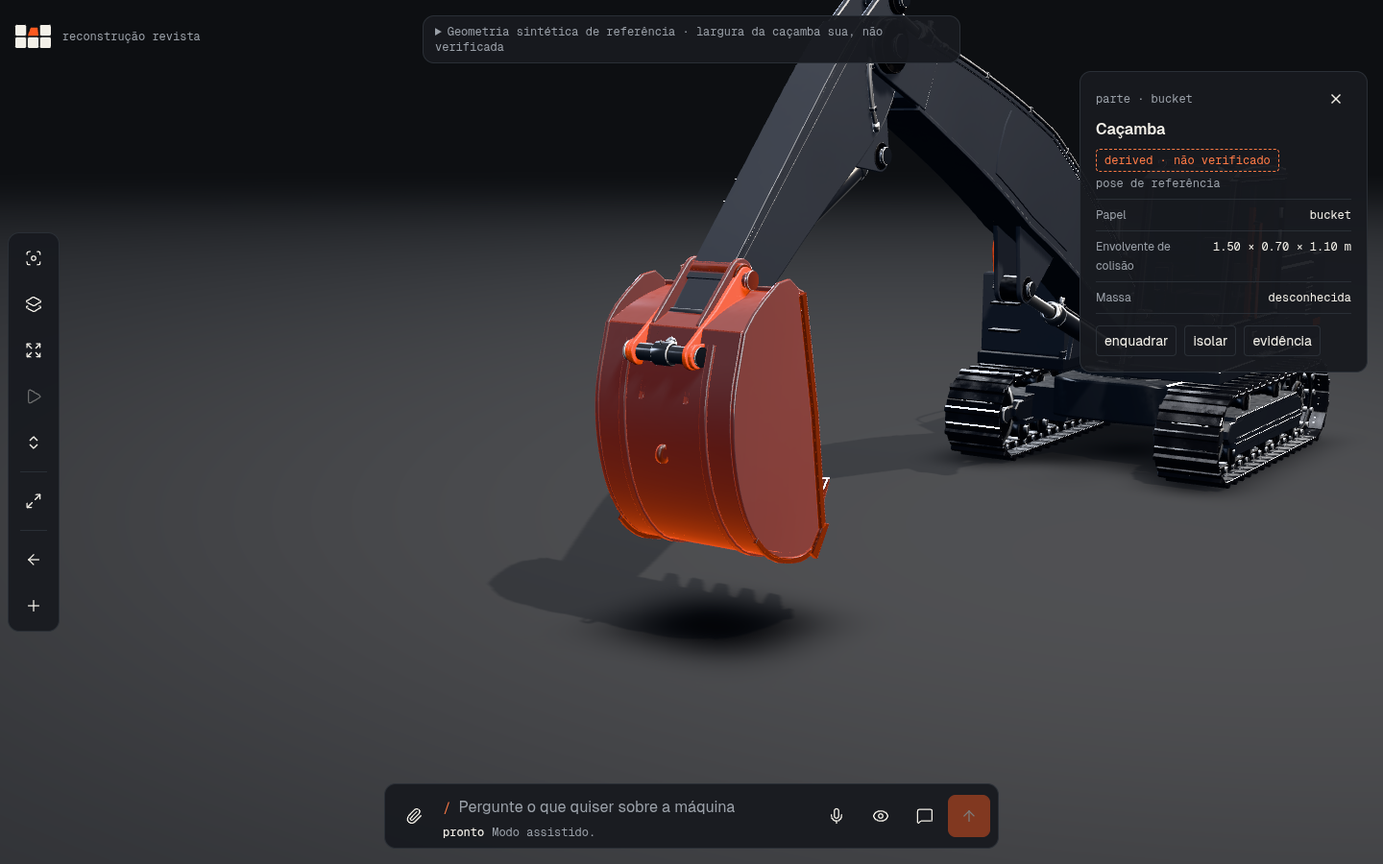
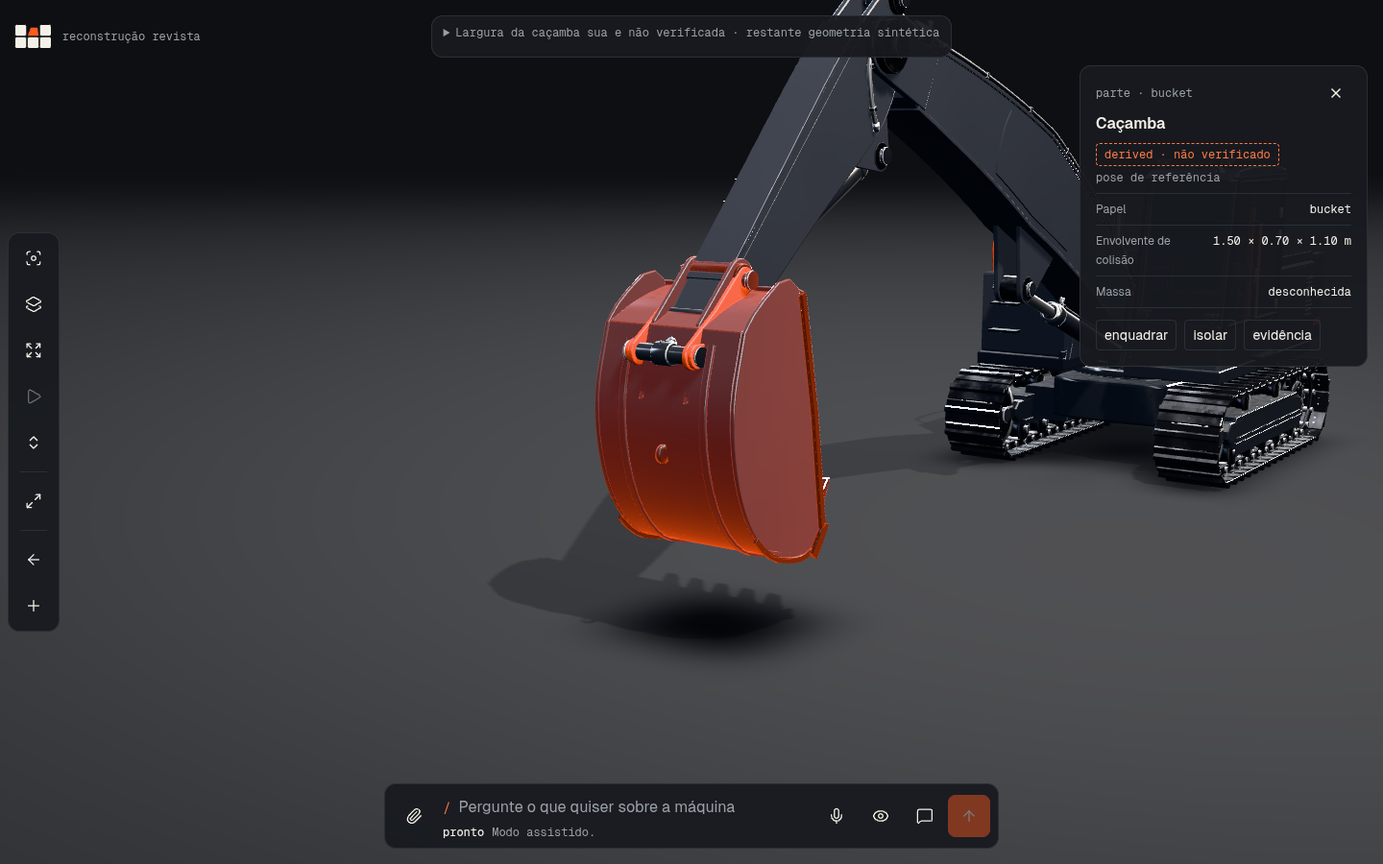
Review fixes: expired session actions, webcam released on every exit, width notice
1. An expired session (server 404 or the 30 minutes passing locally) now shows
   'Importar outra fonte' and 'Novo projecto', which start over without a page
   reload; the interface reacts at the moment of expiry, without a click.
2. Leaving a machine (replace, clear, back to review, new project, dispose)
   stops webcam hand control: tracker forgotten first, capture tracks ended,
   video released, interaction model reset, cursor cleared. Covered with a fake
   camera, including a permission granted after leaving.
3. The lab notice no longer says the 3D mesh ignores the width (the Foundry
   draws it); it says the width is the person's, unmeasured and unverified, and
   the rest is synthetic.

diff --git a/tests/e2e/unified-lifecycle.pw.ts b/tests/e2e/unified-lifecycle.pw.ts
@@ -11,7 +11,7 @@ process.env.UNFOLD_API_TARGET = 'http://127.0.0.1:9';
 const port = Number(process.env.UNFOLD_LIFECYCLE_PORT ?? 5331);
 const vite = await createServer({ server: { host: '127.0.0.1', port, strictPort: true }, logLevel: 'error' });
 await vite.listen();
-const browser = await chromium.launch({ executablePath: process.env.CHROME_PATH ?? '/usr/bin/google-chrome', args: ['--use-angle=swiftshader', '--enable-unsafe-swiftshader', '--ignore-gpu-blocklist', '--no-sandbox'] });
+const browser = await chromium.launch({ executablePath: process.env.CHROME_PATH ?? '/usr/bin/google-chrome', args: ['--use-angle=swiftshader', '--enable-unsafe-swiftshader', '--ignore-gpu-blocklist', '--no-sandbox', '--use-fake-device-for-media-stream', '--use-fake-ui-for-media-stream'] });
 const errors: string[] = [];
 try {
   const page = await browser.newPage({ viewport: { width: 1000, height: 700 } });
@@ -31,5 +31,54 @@ try {
   const r = await page.evaluate(async () => { const ws = (window as any).__workspace; ws.replaceAssembly(ws.options.assembly, { reveal: true }); const running = ws.revealTween !== null; ws.dispose(); const stopped = ws.revealTween === null; await new Promise((res) => setTimeout(res, 1500)); return { running, stopped }; });
   assert.deepEqual(r, { running: true, stopped: true });
   console.log('PASS dispose during the entry animation stops it at once');
+
+  // ---- webcam hand control: leaving a machine must end the capture, whatever the way out, even if the permission arrives late
+  const cam = await browser.newPage({ viewport: { width: 1000, height: 700 } });
+  cam.on('pageerror', (e) => errors.push(e.message));
+  await cam.route(/\/mediapipe\/|hand_landmarker\.task/, () => { /* never answered: the capture stays live while the model "loads" */ });
+  await cam.addInitScript(() => {
+    const md = navigator.mediaDevices; const original = md.getUserMedia.bind(md);
+    (window as any).__streams = []; (window as any).__gate = null;
+    md.getUserMedia = async (constraints) => { const gate = (window as any).__gate; if (gate) await gate; const stream = await original(constraints); (window as any).__streams.push(stream); return stream; };
+  });
+  await cam.goto(`http://127.0.0.1:${port}/living?example=1&debug-living=1&rm=1&agent=fixture`);
+  await cam.waitForFunction(() => (window as any).__foundry?.ready, null, { timeout: 120000 });
+  const camState = () => cam.evaluate(() => { const ws = (window as any).__workspace; const hand = ws.el.userHand as HTMLElement; return { tracker: ws.handTracker !== null, pressed: ws.el.toolHand.getAttribute('aria-pressed'), srcObject: (ws.el.video as HTMLVideoElement).srcObject !== null, tracks: (window as any).__streams.flatMap((st: MediaStream) => st.getTracks().map((t) => t.readyState)), cursorHidden: hand.hidden, cursorState: hand.dataset.state ?? null }; });
+  const startHand = async () => { await cam.evaluate(() => { (window as any).__streams.length = 0; }); await cam.locator('[data-el="toolMore"]').click(); if ((await cam.locator('[data-el="toolHand"]').getAttribute('aria-pressed')) !== 'true') await cam.locator('[data-el="toolHand"]').click(); };
+  const exits: Array<[string, 'clear' | 'empty' | 'other']> = [
+    ['clearMachine', 'clear'],
+    ['replaceAssembly to the empty stage', 'empty'],
+    ['replaceAssembly to another machine', 'other'],
+  ];
+  for (const [name, way] of exits) {
+    await cam.evaluate(() => { const ws = (window as any).__workspace; if (ws.isEmpty) ws.replaceAssembly(ws.options.assembly, { reveal: false }); });
+    await startHand();
+    await cam.waitForFunction(() => (window as any).__streams.length === 1 && (window as any).__workspace.el.video.srcObject, null, { timeout: 30000 });
+    const live = await camState();
+    assert.deepEqual([live.tracker, live.pressed, live.srcObject, live.tracks.every((t: string) => t === 'live') && live.tracks.length > 0], [true, 'true', true, true], `${name}: the capture is live before leaving`);
+    await cam.evaluate(() => { const ws = (window as any).__workspace; const hand = ws.el.userHand as HTMLElement; hand.hidden = false; hand.dataset.state = 'active'; hand.style.left = '10px'; (window as any).__tracker = ws.handTracker; });
+    await cam.evaluate((w) => { const ws = (window as any).__workspace; if (w === 'clear') ws.clearMachine({}); else if (w === 'empty') ws.replaceAssembly(ws.options.assembly, { empty: true }); else ws.replaceAssembly(ws.options.assembly, { reveal: false }); }, way);
+    const after = await camState();
+    assert.deepEqual({ tracker: after.tracker, pressed: after.pressed, srcObject: after.srcObject, cursorHidden: after.cursorHidden, cursorState: after.cursorState }, { tracker: false, pressed: 'false', srcObject: false, cursorHidden: true, cursorState: null }, `${name}: the tracker, the video and the hand state are released`);
+    assert.ok(after.tracks.length > 0 && after.tracks.every((t: string) => t === 'ended'), `${name}: every capture track ended (${after.tracks})`);
+    // a callback that arrives late must not bring the hand back
+    await cam.evaluate(() => { const t = (window as any).__tracker; t.options.onLandmarks(Array.from({ length: 21 }, (_, i) => ({ x: 0.5 + i * 0.001, y: 0.5, z: 0 }))); });
+    assert.equal((await camState()).cursorHidden, true, `${name}: a late landmark callback does nothing`);
+    console.log(`PASS webcam released on: ${name}`);
+  }
+
+  // the permission is granted only after the person already left
+  await cam.evaluate(() => { const ws = (window as any).__workspace; if (ws.isEmpty) ws.replaceAssembly(ws.options.assembly, { reveal: false }); (window as any).__streams.length = 0; (window as any).__gate = new Promise((res) => { (window as any).__grant = res; }); });
+  await cam.locator('[data-el="toolMore"]').click(); if ((await cam.locator('[data-el="toolMore"]').getAttribute('aria-expanded')) !== 'true') await cam.locator('[data-el="toolMore"]').click();
+  await cam.locator('[data-el="toolHand"]').click();
+  assert.equal((await camState()).tracker, true, 'the request is pending');
+  await cam.evaluate(() => (window as any).__workspace.clearMachine({}));
+  await cam.evaluate(() => (window as any).__grant());
+  await cam.waitForFunction(() => (window as any).__streams.length === 1, null, { timeout: 30000 });
+  await cam.waitForFunction(() => (window as any).__streams[0].getTracks().every((t: MediaStreamTrack) => t.readyState === 'ended'), null, { timeout: 10000 });
+  const late = await camState();
+  assert.deepEqual({ tracker: late.tracker, srcObject: late.srcObject, pressed: late.pressed }, { tracker: false, srcObject: false, pressed: 'false' });
+  console.log('PASS a permission granted after leaving ends the capture at once and attaches nothing');
+  await cam.close();
   assert.deepEqual(errors, []);
 } finally { await browser.close(); await vite.close(); }

diff --git a/tests/e2e/unified-living.pw.ts b/tests/e2e/unified-living.pw.ts
@@ -161,8 +161,10 @@ try {
     const noticeHeight = await page.evaluate(() => document.querySelector('.uw-notices')!.getBoundingClientRect().height);
     assert.ok(noticeHeight <= 96, `${label}: the provenance notice is compact when collapsed (${noticeHeight}px)`);
     await page.locator('.uw-notice-details summary').click();
-    const detail = await page.locator('.uw-notice-details p').innerText();
-    for (const phrase of [/não foram verificadas/, /malha 3D ainda não mostra/, /forward-kinematics@/, /não certifica segurança/, /1,40 m, antes 1,10 m/]) assert.match(detail, phrase);
+    const detail = (await page.locator('.uw-notice-details p').textContent()) ?? '';
+    // the Foundry draws the width the person gave; what stays true is that it is theirs, unmeasured, and the rest is synthetic
+    for (const phrase of [/malha 3D da caçamba segue a largura que indicou/, /não foi medida nem verificada pela Meta/, /forward-kinematics@/, /não certifica segurança/, /1,40 m, antes 1,10 m/, /resto da geometria é sintético/]) assert.match(detail, phrase);
+    assert.doesNotMatch(detail, /ainda não mostra|forma que vê é de demonstração/);
     await page.screenshot({ path: join(out, `${label}-07-lab-notice-expanded.png`) });
     await page.locator('.uw-notice-details summary').click();
     pass(`${label}: live flow reaches the real workspace through both gates, no overflow, no overlap`);
@@ -290,6 +292,43 @@ try {
     await page.waitForFunction(() => /expirou/.test(document.querySelector('#ux-gw-msg')?.textContent ?? ''));
     assert.equal(await phase(page), 'review');
     pass('an expired server session is reported and the lab stays closed');
+    // the way on is explicit, and it works without reloading the page
+    assert.deepEqual(await page.locator('#ux-gw-msg [data-flow="restart"]').allTextContents(), ['Importar outra fonte', 'Novo projecto']);
+    await page.evaluate(() => { (window as any).__noReload = true; });
+    await page.locator('#ux-gw-msg [data-flow="restart"]', { hasText: 'Importar outra fonte' }).click();
+    assert.equal(await phase(page), 'empty'); assert.equal(await page.evaluate(() => (window as any).__noReload === true), true, 'no page reload');
+    assert.equal(await page.evaluate(() => (window as any).__unified.port.session.state.phase), 'idle');
+    assert.deepEqual(await stageEmpty(page), EMPTY_STAGE);
+    await page.locator('[data-kind="text"]').click(); await page.locator('#ux-text').fill('Escavadora de rastos de 20 t com lança, braço e caçamba.'); await page.locator('#ux-use-text').click();
+    assert.equal(await phase(page), 'selected', 'a new source can be imported straight away');
+    pass('after an expired session the person can import another source without reloading');
+    await page.close();
+  }
+
+  // local expiry (30 minutes), with the browser clock advanced: the interface reacts by itself and offers the same two ways on
+  await restartBackend(); providerCalls.length = 0; api.length = 0;
+  {
+    const page = await browser.newPage({ viewport: { width: 1440, height: 900 } });
+    page.on('pageerror', (e) => errors.push(e.message));
+    await page.route('**/api/living/reconstruction', async (route) => {
+      const request = route.request();
+      const response = await fetch(`http://127.0.0.1:${backendPort}/api/living/reconstruction`, { method: 'POST', headers: { 'content-type': 'application/json', origin: ALLOWED_ORIGIN }, body: request.postData() ?? '' });
+      await route.fulfill({ status: response.status, contentType: 'application/json', body: await response.text() });
+    });
+    await page.clock.install({ time: new Date() });
+    await page.goto(`http://127.0.0.1:${port}/living?debug-living=1&rm=1&agent=fixture`);
+    await page.waitForFunction(() => (window as any).__experience?.ready, null, { timeout: 120000 });
+    await toServerStep(page);
+    assert.equal(await page.locator('#ux-enter').isDisabled(), false);
+    await page.clock.fastForward('30:05');
+    await page.waitForFunction(() => /expirou/.test(document.querySelector('#ux-gw-msg')?.textContent ?? ''), null, { timeout: 10000 });
+    assert.equal(await page.locator('#ux-enter').isDisabled(), true, 'nothing can be sent any more');
+    assert.deepEqual(await page.locator('#ux-gw-msg [data-flow="restart"]').allTextContents(), ['Importar outra fonte', 'Novo projecto']);
+    assert.equal(api.filter((a) => a.body.action === 'review').length, 0, 'the server was never asked: the expiry is known locally');
+    await page.screenshot({ path: join(out, 'session-expired.png') });
+    await page.locator('#ux-gw-msg [data-flow="restart"]', { hasText: 'Novo projecto' }).click();
+    assert.equal(await phase(page), 'empty'); assert.deepEqual(await stageEmpty(page), EMPTY_STAGE);
+    pass('a session that expires locally is shown without a click, with both ways on, and "Novo projecto" starts over');
     await page.close();
   }
 

diff --git a/src/living/experience/experience.ts b/src/living/experience/experience.ts
@@ -22,7 +22,7 @@ import { renderDrawing, type DrawingResult } from './drawing';
 import { initialFlow, PHASE_HEADLINE, reduceFlow, type FlowAction, type FlowState } from './flow';
 import { checkFile, checkText, DEMO_SCENARIO_LABEL, DEMO_SCENARIOS, DemoReconstructionPort, MAX_INPUT_BYTES, TEXT_LIMITS, type DemoScenario, type InputKind, type IntakeInput, type ReconstructionPort } from './intake';
 import { DRAWING_REFERENCE, ENTITY_PARTS } from './reconstruction-fixture';
-import { gatewayPanel, missingHtml, missingLines, type GatewayMessage } from './gateway-view';
+import { EXPIRED_MESSAGE, gatewayPanel, missingHtml, missingLines, restartActionsHtml, type GatewayMessage } from './gateway-view';
 import type { ComposerMode, ExperienceApi, ExperienceOptions } from './integration';
 import {
   CATEGORY_LABEL, ENGINE_GATE_LABEL, initialReview, labCategory, partCategories, PROPERTY_LABEL, propertyState, readiness, reduceReview, summarize,
@@ -59,6 +59,7 @@ export async function mountExperience(app: HTMLElement, options: ExperienceOptio
   let gwBusy = false;
   /** Two steps in the review column when a handoff is plugged in: 1 = decide the entities, 2 = what the server asks. */
   let gwStep = false;
+  let expiryTimer = 0;
 
   app.innerHTML = `
     <div class="ux-root u-root" data-theme="dark" data-phase="empty" data-reduced-motion="${reducedMotion}" data-integrated="${Boolean(options.lab)}" data-embedded="${Boolean(embedded)}">
@@ -231,6 +232,9 @@ export async function mountExperience(app: HTMLElement, options: ExperienceOptio
         <p class="ux-sheet-note u-label">a localização das regiões não está disponível para esta fonte${port.mode === 'demo' ? ' · resultado de demonstração, não do seu ficheiro' : ''}</p>`;
     }
     options.handoff?.sync(review);
+    clearTimeout(expiryTimer);
+    if (options.handoff?.expired?.() && !gwBusy) gwMessage = EXPIRED_MESSAGE;
+    else { const at = options.handoff?.expiresAt?.(); if (at) expiryTimer = window.setTimeout(() => { if (flow.phase === 'review') renderReview(); }, Math.max(0, at - Date.now()) + 25); }
     if (readiness(review).status !== 'ready_for_engine') gwStep = false;
     root.dataset.step = gwStep && options.handoff ? 'server' : 'entities';
     $('ux-side').innerHTML = gates(review, engine) + counts(review) + unknownsBlock(review);
@@ -241,6 +245,11 @@ export async function mountExperience(app: HTMLElement, options: ExperienceOptio
   /** The primary action and its note. With a handoff, the server's confirmations are part of "ready", never assumed. */
   function refreshEnter() {
     if (!review) return;
+    if (options.handoff?.expired?.()) {
+      ($('ux-enter') as HTMLButtonElement).disabled = true;
+      $('ux-enter-note').innerHTML = `A sessão do servidor expirou: a revisão já não pode ser enviada.${restartActionsHtml()}`;
+      return;
+    }
     const r = readiness(review);
     const blockers = options.handoff ? options.handoff.blockers() : [];
     const stepOne = Boolean(options.handoff) && !gwStep;
@@ -268,7 +277,7 @@ export async function mountExperience(app: HTMLElement, options: ExperienceOptio
       case 'engine_blocked': engine = result.engine; gwMessage = { tone: 'alert', lines: ['O contrato é válido, mas o motor não consegue resolver esta montagem. O laboratório fica fechado.', ...result.engine.reasons] }; break;
       case 'blocked': gwMessage = { tone: 'alert', lines: ['O servidor bloqueou a revisão:', ...result.reasons] }; break;
       case 'not_adoptable': gwMessage = { tone: 'alert', lines: ['A montagem devolvida não passou as verificações locais e foi descartada:', ...result.reasons] }; break;
-      case 'expired': gwMessage = { tone: 'alert', lines: ['A sessão expirou ou o servidor foi reiniciado. A revisão não foi gravada: importe a fonte de novo.'] }; break;
+      case 'expired': gwMessage = EXPIRED_MESSAGE; break;
       case 'failed': gwMessage = { tone: 'alert', lines: [result.message] }; break;
       case 'ignored': gwMessage = null; break;
     }
@@ -300,7 +309,7 @@ export async function mountExperience(app: HTMLElement, options: ExperienceOptio
     if (labMounted) { options.lab?.unmount(); labMounted = false; }
     if (!embedded) { $('ux-workspace').hidden = true; $('ux-stage').style.visibility = ''; }
   }
-  function resetIntegration() { options.example?.close?.(); options.handoff?.reset(); engine = { status: 'not_run' }; candidate = null; gwMessage = null; gwBusy = false; gwStep = false; }
+  function resetIntegration() { clearTimeout(expiryTimer); options.example?.close?.(); options.handoff?.reset(); engine = { status: 'not_run' }; candidate = null; gwMessage = null; gwBusy = false; gwStep = false; }
   function enterLab(animated = true) {
     if (!review || readiness(review).status !== 'ready_for_engine') return;
     dispatch({ type: 'open_lab' });

diff --git a/tests/unified-workspace/review-fixes.test.ts b/tests/unified-workspace/review-fixes.test.ts
@@ -1,0 +1,57 @@
+import { describe, expect, it, vi } from 'vitest';
+import { createReconstructionClient, ReconstructionSession, ReviewGateway, SESSION_TTL_MS, type WorkspaceCandidate } from '../../src/living/unified-workspace';
+import { candidateNotices } from '../../src/living/unified-workspace/lab-host';
+import { PNG_1X1, json, proposalBody } from './helpers';
+
+const candidate = { bucketWidthM: { before: 1.1, after: 1.4 } } as unknown as WorkspaceCandidate;
+const gates = { review: '14 de 14 decididas', engine: 'validada pelo motor · solver@0.1.0' };
+
+describe('the lab notice about the bucket width (the Foundry now draws it)', () => {
+  const [notice] = candidateNotices(candidate, gates);
+  const text = `${notice!.text} ${notice!.detail}`;
+
+  it('no longer says the 3D mesh does not show the width', () => {
+    expect(text).not.toMatch(/ainda não mostra|forma que vê é de demonstração|não a mostra/i);
+  });
+  it('says the mesh follows the width the person gave, with both values', () => {
+    expect(notice!.detail).toMatch(/malha 3D[^.]*largura que indicou/i);
+    expect(notice!.detail).toContain('1,40 m'); expect(notice!.detail).toContain('1,10 m');
+  });
+  it('keeps what is still true: not measured or verified, the rest of the geometry is synthetic', () => {
+    expect(text).toMatch(/não (foi )?medida nem verificada|não (foram )?verificad/i);
+    expect(text).toMatch(/Meta/);
+    expect(text).toMatch(/sintétic/i);
+    expect(notice!.detail).toMatch(/não certifica segurança/);
+  });
+});
+
+describe('an expired reconstruction session is visible to the interface', () => {
+  async function started(now: () => number) {
+    const fetchImpl = vi.fn(async () => json(200, { ...proposalBody(), mode: 'live', meta: { model: 'm', requestId: 'r' } }));
+    const session = new ReconstructionSession({ client: createReconstructionClient({ fetchImpl: fetchImpl as unknown as typeof fetch }), now });
+    await session.propose({ sourceKind: 'image', imageDataUrl: PNG_1X1, mode: 'live' });
+    return { session, gateway: new ReviewGateway(session) };
+  }
+
+  it('reports when it will expire, and then that it has', async () => {
+    let clock = 5_000;
+    const { gateway } = await started(() => clock);
+    expect(gateway.expired()).toBe(false);
+    expect(gateway.expiresAt()).toBe(5_000 + SESSION_TTL_MS);
+    clock += SESSION_TTL_MS;
+    expect(gateway.expired()).toBe(true);
+  });
+
+  it('has nothing to expire when there is no session, and a reset is not an expiry', async () => {
+    const { gateway, session } = await started(() => 0);
+    session.reset();
+    expect(gateway.expired()).toBe(false); expect(gateway.expiresAt()).toBeNull();
+  });
+
+  it('a submit after the local expiry is reported as expired without calling the server', async () => {
+    let clock = 0;
+    const { gateway } = await started(() => clock);
+    clock += SESSION_TTL_MS + 1;
+    expect(await gateway.submit()).toEqual({ kind: 'expired' });
+  });
+});

diff --git a/src/living/experience/gateway-view.ts b/src/living/experience/gateway-view.ts
@@ -8,7 +8,11 @@ import type { ReviewState } from './review';
 const esc = (s: string) => s.replace(/[&<>"']/g, (ch) => ({ '&': '&amp;', '<': '&lt;', '>': '&gt;', '"': '&quot;', "'": '&#39;' })[ch]!);
 const KIND: Record<string, string> = { hypothesis: 'afirmação do modelo', relation: 'relação', request: 'pedido de alteração' };
 
-export type GatewayMessage = { tone: 'alert' | 'status'; lines: string[] } | null;
+export type GatewayMessage = { tone: 'alert' | 'status'; lines: string[]; /** offer the two ways to start again */ restart?: boolean } | null;
+
+/** The server session is gone: nothing can be sent, and the person must be able to start again without reloading the page. */
+export const EXPIRED_MESSAGE: NonNullable<GatewayMessage> = { tone: 'alert', restart: true, lines: ['A sessão do servidor expirou ou o servidor foi reiniciado. Nada foi gravado e esta revisão já não pode ser enviada.'] };
+export const restartActionsHtml = (): string => '<div class="ux-row ux-restart-actions"><button class="u-btn u-btn--ink" type="button" data-flow="restart">Importar outra fonte</button><button class="u-btn u-btn--outline" type="button" data-flow="restart">Novo projecto</button></div>';
 
 function extraRow(e: HandoffExtra): string {
   const key = esc(e.key);
@@ -66,6 +70,6 @@ export function gatewayPanel(handoff: ReviewHandoff, ui: ReviewState, message: G
     ${extras.length ? `<details class="ux-gw-extras" ${open ? 'open' : ''}><summary class="u-label">relações e afirmações do modelo · ${open ? `${open} por decidir` : 'todas decididas'}</summary>${bulk}<ul>${extras.map(extraRow).join('')}</ul></details>` : ''}
     <div class="ux-gw-sent u-label">${sentSummary(handoff, ui).map((l) => `<p>${esc(l)}</p>`).join('')}</div>
     ${notes.length ? `<ul class="ux-gw-notes u-label" aria-label="Decisões que ficam só neste ecrã">${notes.map((n) => `<li>${esc(n)}</li>`).join('')}</ul>` : ''}
-    <div id="ux-gw-msg" class="ux-gw-msg" ${message?.tone === 'alert' ? 'role="alert"' : 'role="status"'} aria-live="polite">${message ? message.lines.map((l) => `<p>${esc(l)}</p>`).join('') : ''}</div>
+    <div id="ux-gw-msg" class="ux-gw-msg" ${message?.tone === 'alert' ? 'role="alert"' : 'role="status"'} aria-live="polite">${message ? message.lines.map((l) => `<p>${esc(l)}</p>`).join('') + (message.restart ? restartActionsHtml() : '') : ''}</div>
   </section>`;
 }

diff --git a/src/living/workspace-design/workspace.ts b/src/living/workspace-design/workspace.ts
@@ -998,9 +998,23 @@ export class SpatialWorkspace {
     if (this.voice.status === 'LISTENING') this.voice.stop(); else this.voice.start();
   }
 
+  /**
+   * Ends webcam hand control completely: the tracker stops (which also ends the capture's video tracks, even if the permission is
+   * granted only later), the tracker is forgotten BEFORE it is stopped so that every late callback finds it is no longer current,
+   * and the person's hand is cleared from the screen. Idempotent; safe on every exit from a machine.
+   */
+  private stopHandTracking(): void {
+    const tracker = this.handTracker; this.handTracker = null;
+    tracker?.stop();
+    this.arbiter.setHandTracking(false);
+    this.handModel.reset();
+    const cursor = this.el.userHand; if (cursor) { cursor.hidden = true; delete cursor.dataset.state; cursor.style.left = ''; cursor.style.top = ''; }
+    if (tracker) this.renderRail();
+  }
+
   /** Webcam hand control (existing module). Starts only on an explicit click; while active the assistant never moves the camera. */
   async toggleHandTracking(): Promise<void> {
-    if (this.handTracker) { this.handTracker.stop(); this.handTracker = null; this.arbiter.setHandTracking(false); this.el.userHand!.hidden = true; this.renderRail(); return; }
+    if (this.handTracker) { this.stopHandTracking(); return; }
     const video = this.el.video as HTMLVideoElement;
     let last: { x: number; y: number } | null = null;
     const tracker = new WebcamHandTracker({
@@ -1062,6 +1076,7 @@ export class SpatialWorkspace {
     cancelAnimationFrame(this.engineRaf); this.engineRaf = 0; this.engineLast = 0;
     this.playback?.cancel(); this.playback = null;
     this.pending?.abort(); this.pending = null;
+    this.stopHandTracking(); // the camera belongs to a person looking at a machine: leaving the machine releases it
     this.engineering.dispose();
     this.scene.dispose();
     this.releaseLook();
@@ -1191,7 +1206,7 @@ export class SpatialWorkspace {
     this.pending?.abort();
     this.playback?.cancel();
     this.insetTween?.kill();
-    this.handTracker?.stop();
+    this.stopHandTracking();
     this.voice?.stop?.();
     for (const d of this.disposers.splice(0)) d();
     this.director.dispose();

diff --git a/src/living/unified-workspace/lab-host.ts b/src/living/unified-workspace/lab-host.ts
@@ -12,10 +12,10 @@ const fmt = (m: number) => m.toFixed(2).replace('.', ',');
 export function candidateNotices(candidate: WorkspaceCandidate, gates: LabContext['gates']): Array<{ id: string; text: string; detail: string }> {
   return [{
     id: 'reconstruction',
-    text: 'Geometria sintética de referência · largura da caçamba sua, não verificada',
+    text: 'Largura da caçamba sua e não verificada · restante geometria sintética',
     detail: `Revisão humana: ${gates.review}. Validação de engenharia: ${gates.engine} (o motor resolveu a pose de referência; não certifica segurança nem movimento). `
-      + `A largura da caçamba (${fmt(candidate.bucketWidthM.after)} m, antes ${fmt(candidate.bucketWidthM.before)} m) e a revisão são suas e não foram verificadas; o resto da geometria é sintético. `
-      + 'A malha 3D ainda não mostra esta largura: a forma que vê é de demonstração.',
+      + `A malha 3D da caçamba segue a largura que indicou (${fmt(candidate.bucketWidthM.after)} m, antes ${fmt(candidate.bucketWidthM.before)} m). Essa largura é um valor seu: não foi medida nem verificada pela Meta nem por qualquer outra fonte. `
+      + 'O resto da geometria é sintético (referência), e a revisão é sua e não foi verificada.',
   }];
 }
 

diff --git a/src/living/unified-workspace/review-bridge.ts b/src/living/unified-workspace/review-bridge.ts
@@ -94,6 +94,11 @@ export class ReviewGateway {
   reopen(): void { this.session.reopen(); }
   reset(): void { this.session.reset(); }
 
+  /** The server session is gone (404) or its 30 minutes passed locally. A reset or no session is not an expiry. */
+  expired(): boolean { return this.session.state.phase === 'expired'; }
+  /** When the session will expire (epoch ms), or null when there is none to expire. */
+  expiresAt(): number | null { const s = this.session.state; return 'expiresAt' in s ? s.expiresAt : null; }
+
   /** Decisions that stay on this screen. Empty when the session has no observation. */
   localNotes(ui: ReviewState): string[] {
     const s = this.session.state;

diff --git a/src/living/experience/integration.ts b/src/living/experience/integration.ts
@@ -34,6 +34,10 @@ export interface ReviewHandoff {
   /** Decisions that stay on this screen because the API has no field for them. */
   localNotes(ui: ReviewState): string[];
   submit(): Promise<HandoffResult>;
+  /** The server session is gone or timed out: nothing can be sent, so the person must start again. */
+  expired?(): boolean;
+  /** Epoch ms at which the session will expire, or null. Lets the interface react when it does, without a click. */
+  expiresAt?(): number | null;
   /** Back from the lab: the review becomes editable again with the same draft. */
   reopen(): void;
   /** Start over: forget the session. */

diff --git a/reports/unified-workspace/integration.md b/reports/unified-workspace/integration.md
@@ -81,7 +81,7 @@ Defeitos encontrados e corrigidos durante a integração, cada um com teste a fa
 
 ## O que não está feito / não verificado
 
-- **Geometria premium (Foundry/Cloud):** a malha continua a desenhar a caçamba com meia largura fixa; a largura aprovada está no contrato, e o laboratório di-lo num aviso. É a última dependência e não foi tocada.
+- **Geometria premium (Foundry/Cloud):** integrada pelo #19: a malha lê a largura da caçamba do contrato (verificado: 1,10 m → 1,154 m, 1,40 m → 1,454 m). Esta frase, escrita antes do #19, dizia o contrário e foi corrigida.
 - **Modelo real:** o cliente nunca falou com o Muse Spark (sem chamadas pagas). NOT VERIFIED.
 - **Correcções e valores introduzidos** pela pessoa na revisão não chegam à geometria: a API não tem campo para eles.
 - **Fonte sem escavadora:** ver a lacuna do servidor acima.
@@ -195,3 +195,14 @@ Não corresponde ao PR #20. O cabeçalho `· fixture` foi removido do `workspace
 106 ficheiros / 1885 testes, `tsc`, build. E2E novo 24 verificações (1440/768/390). Design 39/39; motor 16, histórico 4, Digital Hand 7, revisão 8, regressões 3 e 4; Foundry 25/25 e 52/52; Cinema 203/203 e histórico.
 
 Limitações novas: o texto da marca durante a revisão continua «laboratório vazio» (não acompanha a fase); a transição é a subida da máquina no palco, sem a dobra da folha do protótipo.
+
+
+---
+
+# Correcções da revisão independente (SHA `0f1d558`)
+
+Três P2 confirmados, corrigidos sem novas funcionalidades.
+
+1. **Sessão expirada.** A revisão mostra agora um aviso com duas ações explícitas, «Importar outra fonte» e «Novo projecto», que recomeçam sem recarregar a página (a sessão do servidor é esquecida e o palco fica vazio). Vale para a sessão perdida no servidor (404) e para a expiração local aos 30 minutos: o `ReviewGateway` expõe `expired()` e `expiresAt()`, e a interface agenda a reação para o momento da expiração, sem esperar por um clique. Testes: `review-fixes.test.ts` (relógio injetado) e, no browser, `unified-living.pw.ts` (404 com as duas ações; expiração local com o relógio do browser avançado 30 min, sem pedido ao servidor).
+2. **Webcam e Digital Hand.** `stopHandTracking()` é chamado por todas as saídas de uma máquina (`teardownMachine`: trocar, esvaziar, voltar à revisão, novo projecto) e pelo `dispose`: o tracker é esquecido antes de parar (os *callbacks* tardios deixam de ser o tracker corrente), as *tracks* de vídeo terminam, o `srcObject` é libertado, o modelo de interação é reposto e o cursor da mão é escondido e limpo. A corrida em que a permissão chega depois de sair já era segura no `WebcamHandTracker` (a *stream* é parada ao chegar) e fica agora coberta. Teste: `unified-lifecycle.pw.ts` com webcam simulada do Chrome; falha sem a correção (confirmado) e passa com ela, para `clearMachine`, `replaceAssembly` para vazio, `replaceAssembly` para outra máquina e a permissão concedida depois de sair.
+3. **Aviso da largura.** Já não diz que a malha 3D não mostra a largura (a Foundry #19 desenha-a). Diz que a malha segue a largura indicada (1,40 m, antes 1,10 m), que esse valor é do utilizador e não foi medido nem verificado pela Meta nem por outra fonte, e que o resto da geometria é sintético. Teste: `review-fixes.test.ts` e o E2E do laboratório.
